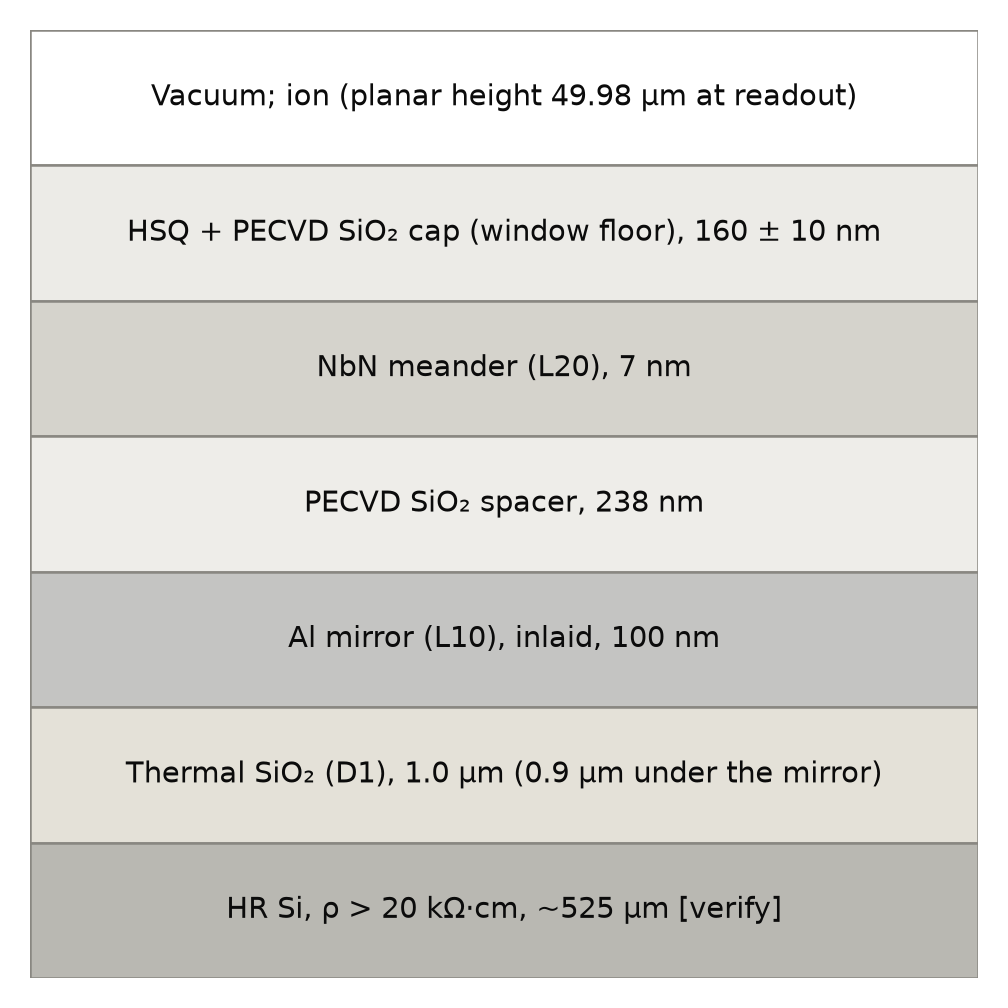
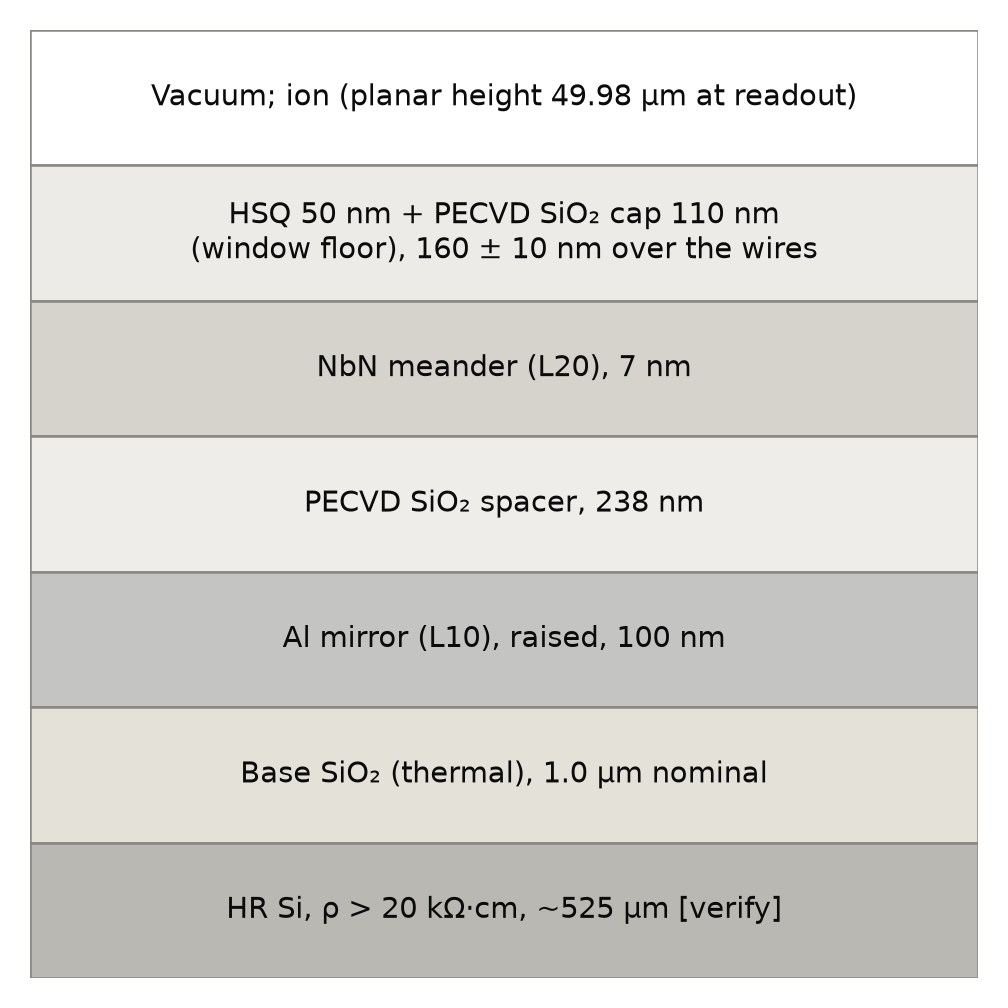
RF primer and report stack figure: raised mirror, 10c cases al100_cap110 and al100

diff --git a/design/figures/make_report_figures.py b/design/figures/make_report_figures.py
@@ -8,7 +8,7 @@ Figures (one function each, written to design/figures/report/<name>.pdf and .png
   transport_static         fig_transport_static: static transport voltages vs ion position (sim 12, trap_die_v4_A30_V2zero waveforms.csv)
   collection_vs_height     fig_collection_vs_height: geometric collection vs ion height (sim 17, summary.json table_A)
   termination              fig_termination: RF current through the nanowire per lead termination (sim 19, summary.json)
-  stack                    fig_stack: readout-zone layer stack, thicknesses from design/fab/STACK.md
+  stack                    fig_stack: readout-zone layer stack, final stack of 2026-11-12 (typed in the function)
   transport_waveform       fig_transport_waveform: ion position and electrode voltages vs time (sim 21, waveform.csv)
   rf_capacitance_sections  fig_rf_capacitance_sections: RF capacitance to ground per configuration (sim 22, summary.json)
 The die map (die_map.pdf, .png, .svg) is made by make_die_map.py, not by this file.
@@ -211,14 +211,15 @@ def fig_termination():
 
 
 def fig_stack():
-    # Layers and thicknesses copied from design/fab/STACK.md, "Readout cross section" (a), top to bottom.
+    # Final stack of 2026-11-12, top to bottom (raised 100 nm Al mirror; base SiO2 1.0 um nominal).
+    # Typed by hand; the values are the ones in design/fab/TRAVELER.md and design/CLAUDE.md.
     layers = [
         ("Vacuum; ion (planar height 49.98 µm at readout)", None, "#ffffff"),
-        ("HSQ + PECVD SiO₂ cap (window floor), 160 ± 10 nm", None, "#ecebe7"),
+        ("HSQ 50 nm + PECVD SiO₂ cap 110 nm\n(window floor), 160 ± 10 nm over the wires", None, "#ecebe7"),
         ("NbN meander (L20), 7 nm", None, "#d5d3cc"),
         ("PECVD SiO₂ spacer, 238 nm", None, "#eeede9"),
-        ("Al mirror (L10), inlaid, 100 nm", None, "#c4c4c2"),
-        ("Thermal SiO₂ (D1), 1.0 µm (0.9 µm under the mirror)", None, "#e4e1d8"),
+        ("Al mirror (L10), raised, 100 nm", None, "#c4c4c2"),
+        ("Base SiO₂ (thermal), 1.0 µm nominal", None, "#e4e1d8"),
         ("HR Si, ρ > 20 kΩ·cm, ~525 µm [verify]", None, "#b9b8b2"),
     ]
     fig, ax = plt.subplots(figsize=(ps.W1, 3.4))

diff --git a/design/primers/make_circuit_figures.py b/design/primers/make_circuit_figures.py
@@ -405,7 +405,7 @@ def fig_lead_termination():
         p.append(label(x + 28, ny + 126, "Z_{term %s}" % name, bold=True, size=13))
         p.append(ground(x, ny + 160))
     p.append(label(20, 440, "Equal terminations: no current crosses the nanowire. A mismatch sends part of the pickup through it.", size=13))
-    p.append(label(20, 462, "Values: I_{inj} = 44.5 µA (E2) / 28.6 µA (E1), L_{bond} = 2 nH [verify], L_{k} = 3.10 µH (A30), 5.94 µH (B60).", size=13))
+    p.append(label(20, 462, "Values: I_{inj} = 44.5 µA (E2) / 28.4 µA (E1), L_{bond} = 2 nH [verify], L_{k} = 3.10 µH (A30), 5.94 µH (B60).", size=13))
     # the cases tried in sim 19
     p.append(panel_title(20, 500, "Terminations tried: Z_{term A} / Z_{term B}"))
     rows = ["case 1:  50 Ω line  /  short",
@@ -445,10 +445,10 @@ def fig_grounding():
     p.append(ground(600, sy + 80))
     # detector end
     p.append(label(xs[0], sy + 52, "detector end", anchor="middle", size=12, bold=True))
-    p.append(label(xs[0], sy + 70, "v_{m} = 30.19 mV (3e-08 Ω·m)", anchor="middle", size=12))
-    p.append(label(xs[0], sy + 86, "40.25 mV (4e-08 Ω·m)", anchor="middle", size=12))
-    p.append(label(20, 330, "The strip carries i_{mirror} = 3.194 mA to ground. Its resistance (T10 four-point test: 18.8 / 25.1 Ω)", size=13))
-    p.append(label(20, 352, "lifts the detector end by v_{m}; dissipation 33.93 / 45.23 µW.", size=13))
+    p.append(label(xs[0], sy + 70, "v_{m} = 29.72 mV (3e-08 Ω·m)", anchor="middle", size=12))
+    p.append(label(xs[0], sy + 86, "39.63 mV (4e-08 Ω·m)", anchor="middle", size=12))
+    p.append(label(20, 330, "The strip carries i_{mirror} = 3.145 mA to ground. Its resistance (expected, calculated, not measured: 18.8 / 25.1 Ω)", size=13))
+    p.append(label(20, 352, "lifts the detector end by v_{m}; dissipation 32.89 / 43.86 µW.", size=13))
     return 740, 370, p
 
 

diff --git a/design/primers/primer_numbers.py b/design/primers/primer_numbers.py
@@ -59,7 +59,11 @@ def sim19_current(case, die, option, r_pair=0.0):
 
 meas = jload("gds/measured_v4.json")
 Z0 = meas["constants"]["Z0_ohm"]
-c10 = jload("sim/out/10c_mirror_thickness/summary.json")["al100_inlaid"]
+# Two 10c cases (design/sim/10c_mirror_thickness.py). Slot cross-section of the final stack
+# (raised 100 nm Al, 110 nm SiO2 cap under the Au leads): the leads, the mirror strip, the mirror swing.
+c10 = jload("sim/out/10c_mirror_thickness/summary.json")["al100_cap110"]
+# Raised 100 nm Al with 160 nm SiO2 over the wires: the direct pickup in the nanowire window.
+c10_win = jload("sim/out/10c_mirror_thickness/summary.json")["al100"]
 s18 = jload("sim/out/18_e1_vs_e2/summary.json")["rows"]
 
 # ---------------------------------------------------------------- 1
@@ -135,7 +139,7 @@ print(f"SNSPD slot lead, one lead, room temperature, bulk rho: E1 = {lead_e1:.2f
 # ---------------------------------------------------------------- 5
 print("== 5. Capacitive pickup ==")
 slot = c10["E2"]["slot"]
-win = c10["E2"]["window"]
+win = c10_win["E2"]["window"]
 c_per_um = slot["C_rf_lead_fF_per_um"]        # fF/um
 l_lead_um = 2240.0   # um, lead length in the trap (the outline's value; the JSON agrees to 0.1 %)
 c_lead_fF = c_per_um * l_lead_um
@@ -209,7 +213,7 @@ print(f"bond wire L = {l_bond*1e9:g} nH (sim/19_lead_termination.py, tagged [ver
       f" omega L = {OMEGA*l_bond:.3f} ohm at {F_RF/1e6:g} MHz")
 for key in ("3e-08", "4e-08"):
     r = c10["E2"]["rho"][key]
-    print(f"Al mirror strip, rho = {key} ohm m (100 nm inlaid Al, E2): i_mirror = {r['i_mirror_mA']:.3f} mA,"
+    print(f"Al mirror strip, rho = {key} ohm m (100 nm raised Al, 110 nm cap, E2): i_mirror = {r['i_mirror_mA']:.3f} mA,"
           f" t10 = {r['t10_ohm']:.3f} ohm, v_m = {r['v_m_mV']:.2f} mV, p = {r['p_uW']:.2f} uW")
 
 # ---------------------------------------------------------------- 9

diff --git a/design/primers/RF_PRIMER.md b/design/primers/RF_PRIMER.md
@@ -111,12 +111,12 @@ In between, the conductor looks like a Thevenin source with voltage `V C_c / (C_
 
 The floating case is the worst one. The team's rule is to keep the mirror tied to ground ([`../CLAUDE.md`](../CLAUDE.md), "Physics decisions not to undo": a floating ITO raised RF pickup, and the mirror ground via stays).
 
-> **On this chip (E2, 100 nm inlaid Al mirror):** C_c per µm from the RF rail to the slot lead is 2.132 aF/µm. Over 2240 µm that is 4.776 fF, and I = 44.53 µA (the JSON value is 44.534 µA, agreeing to 0.1 %).
+> **On this chip (E2, raised 100 nm Al mirror, 110 nm SiO₂ cap under the leads):** C_c per µm from the RF rail to the slot lead is 2.132 aF/µm. Over 2240 µm that is 4.776 fF, and I = 44.53 µA (the JSON value is 44.529 µA, agreeing to 0.1 %).
 > The nanowire window: C_RN = 0.1029 fF gives I = 0.9593 µA, equal to the JSON I_pk_uA.
 
 Where this shows up:
 - [`../sim/10b_rf_pickup_v4.py`](../sim/10b_rf_pickup_v4.py) and [`../sim/10c_mirror_thickness.py`](../sim/10c_mirror_thickness.py)
-- [`../sim/out/10c_mirror_thickness/summary.json`](../sim/out/10c_mirror_thickness/summary.json) (`al100_inlaid`, E2)
+- [`../sim/out/10c_mirror_thickness/summary.json`](../sim/out/10c_mirror_thickness/summary.json) (`al100_cap110`, E2, for the lead; `al100`, E2, for the nanowire window)
 - [`../DESIGN_LOG.md`](../DESIGN_LOG.md), steps 10 and 26
 
 ## 6. Filters on the DC lines
@@ -193,12 +193,12 @@ The lead model in [`../sim/19_lead_termination.py`](../sim/19_lead_termination.p
 *The strip model of sim 10c: pickup enters along the strip and all of it leaves through the ground end.*
 
 > **On this chip:** ωL for 2 nH at 28 MHz is 0.352 Ω.
-> The Al mirror strip (100 nm inlaid Al, E2) is grounded at one far end. Its detector end sits tens of mV from ground because the return path has resistance. For the two resistivity keys in the sim, 3e-08 and 4e-08 Ω·m:
-> - mirror current i_mirror = 3.194 mA for both;
-> - t10 = 18.825 Ω and 25.100 Ω;
-> - v_m = 30.19 mV and 40.25 mV;
-> - p = 33.93 µW and 45.23 µW.
-> Source: [`../sim/out/10c_mirror_thickness/summary.json`](../sim/out/10c_mirror_thickness/summary.json), `al100_inlaid`, E2.
+> The Al mirror strip (raised 100 nm Al, 110 nm SiO₂ cap under the leads, E2) is grounded at one far end. Its detector end sits tens of mV from ground because the return path has resistance. For the two resistivity keys in the sim, 3e-08 and 4e-08 Ω·m:
+> - mirror current i_mirror = 3.145 mA for both;
+> - t10 = 18.825 Ω and 25.100 Ω (expected, calculated; not measured);
+> - v_m = 29.72 mV and 39.63 mV;
+> - p = 32.89 µW and 43.86 µW.
+> Source: [`../sim/out/10c_mirror_thickness/summary.json`](../sim/out/10c_mirror_thickness/summary.json), `al100_cap110`, E2.
 > Model ([`../sim/10c_mirror_thickness.py`](../sim/10c_mirror_thickness.py), `derived()`): the RF current that the rail sends into the strip is a peak value, `i_mirror = ω V C_p L`, for a strip 2240 µm long plus a 140 µm tail to the via. The strip is 40 µm wide, with resistance ρ / (t × 40 µm) per length. Its current grows linearly from zero at the detector end to `i_mirror` at the via, so `v_m` is the peak swing at the detector end. The dissipation is `p = ½ i_mirror² R_eff` (peak current, time average), with `R_eff = r (L/3 + L_tail)`, where r is the resistance per length.
 
 Where this shows up:

diff --git a/design/figures/README.md b/design/figures/README.md
@@ -7,7 +7,7 @@
 | `report/transport_static.pdf`, `.png` | `make_report_figures.py` `fig_transport_static` | `design/sim/out/12_final_chip/trap_die_v4_A30_V2zero/waveforms.csv` | ion position (µm); electrode voltage (V) |
 | `report/collection_vs_height.pdf`, `.png` | `make_report_figures.py` `fig_collection_vs_height` | `design/sim/out/17_height_tradeoff/summary.json` | ion height (µm); geometric collection (%) |
 | `report/termination.pdf`, `.png` | `make_report_figures.py` `fig_termination` | `design/sim/out/19_lead_termination/summary.json` | RF current through the nanowire (µA, log); case (y) |
-| `report/stack.pdf`, `.png` | `make_report_figures.py` `fig_stack` | `design/fab/STACK.md` (typed values, not parsed) | layer bands (no axes) |
+| `report/stack.pdf`, `.png` | `make_report_figures.py` `fig_stack` | the final stack of 2026-11-12, typed in the function (not parsed): raised 100 nm Al mirror, base SiO₂ 1.0 µm nominal, SiO₂ spacer 238 nm, NbN 7 nm, HSQ 50 nm + SiO₂ cap 110 nm | layer bands (no axes) |
 | `report/transport_waveform.pdf`, `.png` | `make_report_figures.py` `fig_transport_waveform` | `design/sim/out/21_transport_waveform/trap_die_v4_A30_V2zero/waveform.csv` | time (µs); ion position (µm); electrode voltage (V) |
 | `report/rf_capacitance_sections.pdf`, `.png` | `make_report_figures.py` `fig_rf_capacitance_sections` | `design/sim/out/22_rf_capacitance/summary.json` | RF capacitance to ground (pF); configuration (y) |
 
